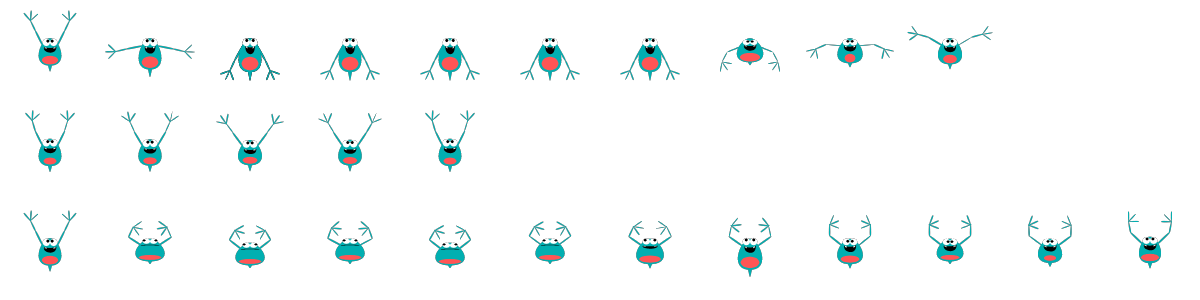
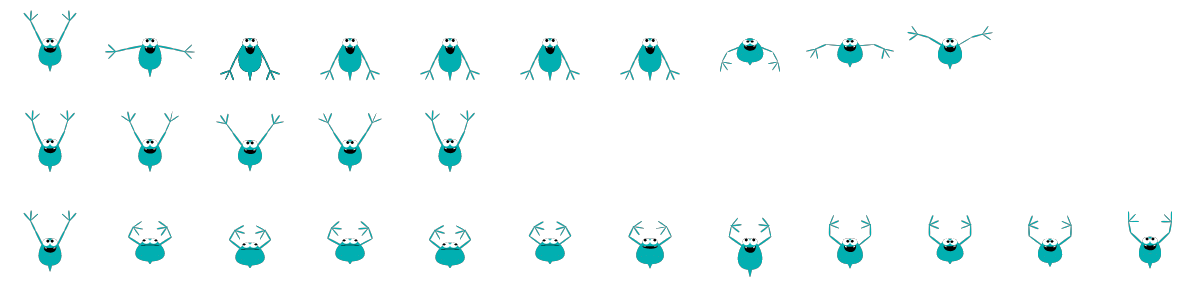
Control the hue of the tummies
A bit hacky, but it works

diff --git a/src/entities/microbe.ts b/src/entities/microbe.ts
@@ -6,8 +6,13 @@ import { sfx } from "../sfx";
 const { vec2, rgb } = LJS;
 
 export class Microbe extends LJS.EngineObject {
-  animations: Record<"idle" | "swim" | "bump", Animation>;
   beat = new Beat(60, 4, 2);
+
+  animations = {
+    swim: new Animation("swim", 10, 1 / 30, 1),
+    idle: new Animation("idle", 5, 1 / 12, 0),
+    bump: new Animation("bump", 12, 1 / 30, 2),
+  };
 
   moveInput: LJS.Vector2 = vec2(0, 0);
   angle = 0;
@@ -18,18 +23,13 @@ export class Microbe extends LJS.EngineObject {
   constructor(pos: LJS.Vector2) {
     super(pos);
 
-    this.animations = {
-      swim: new Animation("swim", 10, 1 / 30, 1),
-      idle: new Animation("idle", 5, 1 / 12, 0),
-      bump: new Animation("bump", 12, 1 / 30, 2),
-    };
-
     this.size = vec2(1.5);
     this.drawSize = vec2(5);
     this.mass = 0.2;
     this.damping = 0.89;
     this.angleDamping = 0.89;
     this.restitution = 5;
+    this.color = LJS.randColor();
 
     this.bubbleEmitter = new LJS.ParticleEmitter(this.pos);
     this.addChild(this.bubbleEmitter);
@@ -62,12 +62,34 @@ export class Microbe extends LJS.EngineObject {
   update(): void {
     super.update();
 
-    const anim = this.animations[this.currentAnim];
+    this.beat.update();
+  }
+
+  render(): void {
+    const name = this.currentAnim;
+    const anim = this.animations[name];
 
     anim.update();
-    this.tileInfo = anim.frame;
+    this.tileInfo = anim.getFrame(spriteAtlas[name]);
+    const tummyTileInfo = anim.getFrame(spriteAtlas[`${name}_tummy`]);
 
-    this.beat.update();
+    LJS.drawTile(
+      this.pos,
+      this.drawSize,
+      this.tileInfo,
+      undefined,
+      this.angle,
+      this.mirror
+    );
+
+    LJS.drawTile(
+      this.pos,
+      this.drawSize,
+      tummyTileInfo,
+      this.color,
+      this.angle,
+      this.mirror
+    );
   }
 
   swim() {

diff --git a/src/main.ts b/src/main.ts
@@ -14,7 +14,7 @@ let player: Microbe;
 
 let bubbles = [];
 let autoMicrobes = [];
-let globalBeat: Beat;
+export let globalBeat: Beat;
 
 export const bpm = 60;
 export const tileSize = vec2(100);
@@ -25,11 +25,13 @@ function gameInit() {
   // LJS.setCanvasPixelated(false);
 
   // init textures
+  ["swim", "idle", "bump"].forEach((animKey, idx) => {
+    spriteAtlas[animKey] = tile(vec2(0, idx), tileSize);
 
-  spriteAtlas["swim"] = tile(0, tileSize);
-  spriteAtlas["idle"] = tile(vec2(0, 1), tileSize); // tile(15, vec2(200,200));
-  spriteAtlas["bump"] = tile(vec2(0, 2), tileSize);
-  spriteAtlas["bubble"] = tile(0, tileSize, 1);
+    spriteAtlas[`${animKey}_tummy`] = tile(vec2(0, idx), tileSize, 1);
+  });
+
+  spriteAtlas["bubble"] = tile(0, tileSize, 2);
 
   const startPos = vec2(0.5, 0.5);
 
@@ -37,7 +39,7 @@ function gameInit() {
 
   player.idle();
 
-  globalBeat = new Beat(120, 4, 1);
+  globalBeat = new Beat(60, 4, 1);
 
   globalBeat.onbeat(([b]) => {
     sfx.tic.play(undefined, 0.5, b === 0 ? 2 : 1);
@@ -93,5 +95,5 @@ LJS.engineInit(
   gameUpdatePost,
   gameRender,
   gameRenderPost,
-  ["frames.png", "objects.png"]
+  ["frames.png", "frames_tummy.png", "objects.png"]
 );

diff --git a/src/animation.ts b/src/animation.ts
@@ -3,10 +3,9 @@ import { spriteAtlas } from "./main";
 const { vec2, rgb, Timer } = LJS;
 
 export class Animation {
-  currentFrame = 0;
-  timer: LJS.Timer;
-  repeats = 0;
-  tileInfo: LJS.TileInfo;
+  private currentFrame = 0;
+  private timer: LJS.Timer;
+  private repeats = 0;
 
   constructor(
     public name: string,
@@ -15,7 +14,6 @@ export class Animation {
     public priority: number
   ) {
     this.timer = new Timer(delta);
-    this.tileInfo ||= spriteAtlas[this.name];
   }
 
   update() {
@@ -47,7 +45,10 @@ export class Animation {
     return this.currentFrame !== 0;
   }
 
-  get frame() {
-    return this.tileInfo.frame(this.currentFrame % this.duration);
+  /**
+   * Look up the tile for the current frame in the given texture.
+   */
+  getFrame(tileInfo: LJS.TileInfo) {
+    return tileInfo.frame(this.currentFrame % this.duration);
   }
 }
